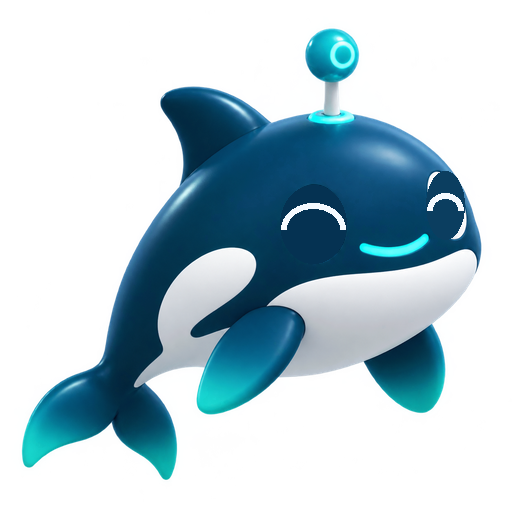
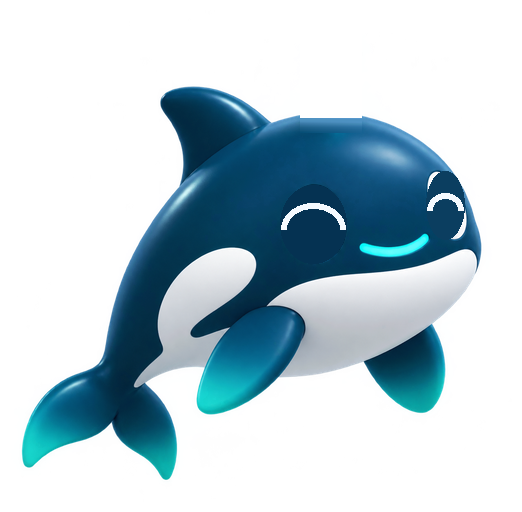
虎鲸去天线（头顶补色保弧度）+ 新增镜像版尾朝右（原尾朝左保留，后台两套可选，默认尾朝右）；修复聊天窗头像：header 与消息头像有图时透明背景、contain 完整居中（原 cover 裁剪偏移），消息列表头像支持配置图片（原写死 AI 文字）

Changed region(s): [[0.5824, 0.0312, 0.705, 0.25]]

diff --git a/src/style.css b/src/style.css
@@ -63,7 +63,8 @@ button:focus-visible,input:focus-visible,textarea:focus-visible{outline:2px soli
 .chat-header{height:62px;flex:none;display:flex;align-items:center;justify-content:space-between;padding:0 14px 0 18px;border-bottom:1px solid var(--border);background:linear-gradient(180deg,#fff,#fbfdfd)}
 .bot-identity{display:flex;align-items:center;gap:11px}
 .bot-avatar{width:38px;height:38px;border-radius:13px;display:grid;place-items:center;background:linear-gradient(145deg,#1cb5a9,#087f78);box-shadow:0 4px 12px -4px rgba(8,127,120,.5),inset 0 1px 0 rgba(255,255,255,.25);color:#fff;font-weight:800;font-size:13px;overflow:hidden}
-.bot-avatar img{width:100%;height:100%;object-fit:cover;border-radius:inherit}
+.bot-avatar img{width:100%;height:100%;object-fit:contain;border-radius:inherit}
+.bot-avatar.has-image{background:transparent;box-shadow:none}
 .bot-identity b{display:block;font-size:14px}
 .bot-identity small{display:flex;align-items:center;gap:5px;margin-top:3px;color:var(--ink-3);font-size:11px;font-weight:500}
 .bot-identity small i{width:7px;height:7px;border-radius:50%;background:#f59e0b}
@@ -147,6 +148,8 @@ a.staff-ding:hover{background:#d0f1ee;color:#08655f}
 .message.user{flex-direction:row-reverse}
 .message-avatar{width:28px;height:28px;flex:none;border-radius:9px;display:grid;place-items:center;background:linear-gradient(145deg,#1cb5a9,#087f78);color:#fff;font-size:10px;font-weight:800;box-shadow:0 3px 8px -2px rgba(8,127,120,.4)}
 .message.user .message-avatar{background:#e6ebf1;color:var(--ink-2);box-shadow:none}
+.message-avatar.has-image{background:transparent;box-shadow:none}
+.message-avatar img{width:100%;height:100%;object-fit:contain}
 .message-bubble{max-width:78%;padding:11px 14px;border:1px solid var(--border);border-radius:4px 16px 16px 16px;background:#fff;color:var(--ink-2);font-size:14px;line-height:1.7;white-space:normal;word-break:break-word;box-shadow:var(--shadow-s)}
 .message.assistant .message-bubble.streaming{border-color:rgba(15,159,149,.32)}
 .message.user .message-bubble{border:0;border-radius:16px 4px 16px 16px;background:linear-gradient(135deg,#14a89d,var(--primary-strong));color:#fff;font-weight:500;box-shadow:0 6px 18px -6px rgba(11,128,120,.45)}

diff --git a/src/components/ChatWidget.vue b/src/components/ChatWidget.vue
@@ -404,7 +404,7 @@ onUnmounted(() => {
     <section v-if="open" class="chat-window" :class="{ maximized }" aria-label="智能助理对话窗口">
       <header class="chat-header">
         <div class="bot-identity">
-          <span class="bot-avatar"><img v-if="avatarIsImage" :src="avatar" alt=""><template v-else>{{ avatarText }}</template></span>
+          <span class="bot-avatar" :class="{ 'has-image': avatarIsImage }"><img v-if="avatarIsImage" :src="avatar" alt=""><template v-else>{{ avatarText }}</template></span>
           <span><b>{{ title }}</b><small><i :class="{ online }" />{{ online ? '服务正常' : '服务未配置' }}</small></span>
         </div>
         <!-- 今日技术支持：从侧栏上移到标题栏，人名可点发起钉钉单聊 -->
@@ -486,7 +486,7 @@ onUnmounted(() => {
           </div>
           <div ref="messageList" class="message-list" aria-live="polite">
             <div v-for="(message, index) in messages" :key="index" class="message" :class="[message.role, { welcome: message.welcome }]">
-              <span class="message-avatar">{{ message.role === 'assistant' ? 'AI' : '我' }}</span>
+              <span class="message-avatar" :class="{ 'has-image': message.role === 'assistant' && avatarIsImage }"><img v-if="message.role === 'assistant' && avatarIsImage" :src="avatar" alt=""><template v-else>{{ message.role === 'assistant' ? avatarText : '我' }}</template></span>
               <div class="message-bubble" :class="{ streaming: message.pending }">
                 <div v-if="message.role === 'assistant' && !message.welcome && (message.pending || message.done)" class="process-panel" :class="{ done: message.done }">
                   <div class="process-head">

diff --git a/src/views/AdminView.vue b/src/views/AdminView.vue
@@ -40,7 +40,8 @@ const brandName = computed(() => sidebar.brand.name.trim() || '小冷')
 
 // 预设形象：点选填充头像与悬浮按钮图（-half/-blink 眨眼帧按同名约定自动配套），保存后生效
 const brandPresets = [
-  { id: 'whale', name: '虎鲸（吉祥物）', launcher: '/presets/whale.png', avatar: '/presets/whale.png' },
+  { id: 'whale-flip', name: '虎鲸·尾朝右', launcher: '/presets/whale-flip.png', avatar: '/presets/whale-flip.png' },
+  { id: 'whale', name: '虎鲸·尾朝左', launcher: '/presets/whale.png', avatar: '/presets/whale.png' },
   { id: 'teal', name: '冷链青', launcher: '/presets/teal.png', avatar: '/presets/teal.png' },
   { id: 'blue', name: '经典蓝', launcher: '/presets/blue.png', avatar: '/presets/blue.png' },
 ]
